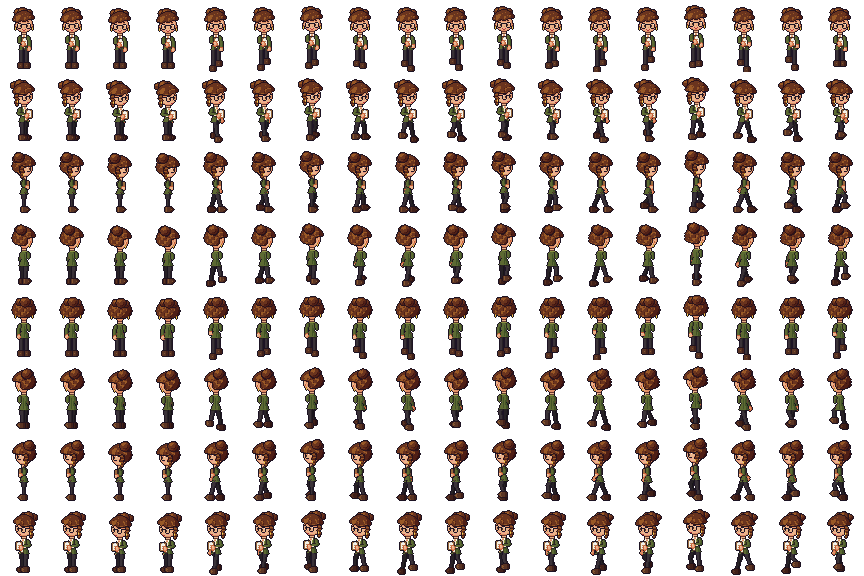
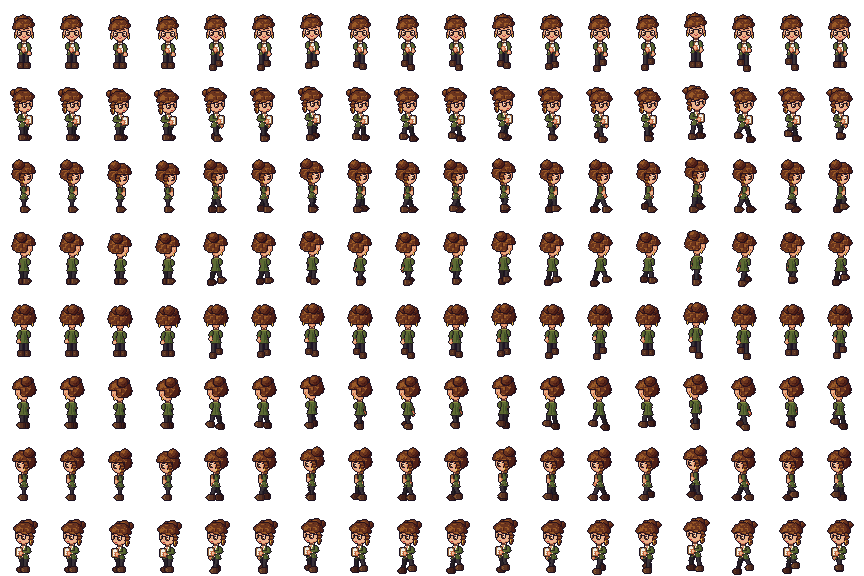
Chibi proportions and shiny eyes
A big head on a short body (no visible neck, shorter torso and legs, big
shoes), like the reference sprite. The default eye is a brown iris with a
lash line and a glint; the small eye stays as Soft. Walk and run strides
are shortened to suit the legs.

Claude-Session: https://claude.ai/code/session_01EfrosEJNuJAWzsbhjRadEB

diff --git a/js/body.js b/js/body.js
@@ -40,10 +40,10 @@
     const up = -hg + (pose.bob || 0);
     const breath = pose.breath || 0;
     const lean = pose.lean || 0;
-    const hipY = ground - 20 + up;
-    const sy = hipY - 12 + breath;
+    const hipY = ground - 15 + up;
+    const sy = hipY - 10 + breath;
     const hcx = cx + s * lean;
-    const hcy = sy - 11;
+    const hcy = sy - 10.5;
     // a turned torso keeps its front width in 3/4 views and only slims in profile
     const hw = Math.round(b.bw * (1 - 0.3 * s ** 4));
     const carrying = cfg.held && cfg.held !== 'none';
@@ -68,14 +68,14 @@
       const shy = sy + 2.4;
       if (carrying && i === 0) {
         // carry pose: elbow tucked, forearm forward across the chest
-        const ex = shx + side * 0.6 - s * 0.5, ey = sy + 6.4;
-        const wx = cx + s * (hw + 0.5) - c * r * 0.8, wy = sy + 8 + c * 0.5;
+        const ex = shx + side * 0.6 - s * 0.5, ey = sy + 5.4;
+        const wx = cx + s * (hw + 0.5) - c * r * 0.8, wy = sy + 6.8 + c * 0.5;
         return { r, out, depth: r * s, carry: true, sh: [shx, shy], el: [ex, ey], wr: [wx, wy], hand: [wx + s * 0.4, wy + 0.4] };
       }
       const sw = (pose.arms && pose.arms[i]) || 0;
-      const ex = shx + side * 1.2 + s * sw * 0.45, ey = sy + 7.2 + c * sw * 0.2;
-      const wx = shx + side * 1.0 + s * sw, wy = sy + 12.6 + c * sw * 0.5 - Math.abs(sw) * 0.35;
-      return { r, out, depth: r * s, sh: [shx, shy], el: [ex, ey], wr: [wx, wy], hand: [wx + s * 0.4, wy + 1.4] };
+      const ex = shx + side * 1.0 + s * sw * 0.45, ey = sy + 6 + c * sw * 0.2;
+      const wx = shx + side * 0.9 + s * sw, wy = sy + 10.4 + c * sw * 0.5 - Math.abs(sw) * 0.3;
+      return { r, out, depth: r * s, sh: [shx, shy], el: [ex, ey], wr: [wx, wy], hand: [wx + s * 0.4, wy + 1.2] };
     });
 
     // legs: feet step along the facing direction, in depth as well as sideways
@@ -176,9 +176,9 @@
     const hem = R.hipY + 1 + hemExtra;
     const lx = cx + s * (R.pose.lean || 0) * 0.5;
     return [
-      [lx - hw + 2.6, top], [lx + hw - 2.6, top], [lx + hw - 0.6, top + 1.4], [lx + hw, top + 3.2],
-      [lx + hw - 0.3 + chest, top + 5.5], [cx + wW + belly * s, top + 8.5], [cx + hipW, hem], [cx - hipW, hem],
-      [cx - wW - belly * s * 0.3, top + 8.5], [lx - hw + 0.3, top + 5.5], [lx - hw, top + 3.2], [lx - hw + 0.6, top + 1.4],
+      [lx - hw + 2.6, top], [lx + hw - 2.6, top], [lx + hw - 0.6, top + 1.2], [lx + hw, top + 2.6],
+      [lx + hw - 0.3 + chest, top + 4.6], [cx + wW + belly * s, top + 7.1], [cx + hipW, hem], [cx - hipW, hem],
+      [cx - wW - belly * s * 0.3, top + 7.1], [lx - hw + 0.3, top + 4.6], [lx - hw, top + 2.6], [lx - hw + 0.6, top + 1.2],
     ];
   }
 
@@ -203,7 +203,7 @@
     if (def.skinTorso || def.tank) {
       fr.draw(fr.mask().poly(torsoPts(R)), { ramp: R.ramps.skin, shade: 'cyl', outline: 'full', tag: TAG.skin, th: [0.9, 0.2, -0.6] });
       if (def.skinTorso) {
-        if (front) { fr.px(nx, sy + 9, R.ramps.skin, 2, TAG.skin); fr.px(nx - 2, sy + 5, R.ramps.skin, 2, TAG.skin); fr.px(nx + 1, sy + 5, R.ramps.skin, 2, TAG.skin); }
+        if (front) { fr.px(nx, sy + 7, R.ramps.skin, 2, TAG.skin); fr.px(nx - 2, sy + 4, R.ramps.skin, 2, TAG.skin); fr.px(nx + 1, sy + 4, R.ramps.skin, 2, TAG.skin); }
         return;
       }
       const m = fr.mask().poly(torsoPts(R)).clipY(sy + 3, 999);
@@ -221,22 +221,22 @@
       const outer = fr.mask().poly(outerPts);
       if (c > -0.05) {
         const ox = cx + s * hw * 0.6;
-        const wt = Math.max(1.2, 3.4 * c), close = sy + 9;
+        const wt = Math.max(1.2, 3.2 * c), close = sy + 7.5;
         const open = fr.mask().poly([[ox - wt, sy - 1], [ox + wt, sy - 1], [ox + 0.6, close], [ox - 0.6, close]]);
         // cutaway below the last button
         open.poly([[ox, R.hipY - 2], [ox + 1.6 * c + 0.5, R.hipY + 1 + (def.hem || 0)], [ox - 1.6 * c - 0.5, R.hipY + 1 + (def.hem || 0)]]);
         outer.subtract(open);
         fr.draw(outer, { ramp: R.ramps.top, shade: 'cyl', outline: 'outer', tag: TAG.cloth, th: CLOTH_TH });
         // lapels: light fold beside the opening, dark crease outside it
-        for (let y = sy; y < sy + 7; y++) for (let x = 0; x < fr.w; x++) {
+        for (let y = sy; y < sy + 6; y++) for (let x = 0; x < fr.w; x++) {
           if (!outer.has(x, y)) continue;
           const dl = open.has(x - 1, y) || open.has(x + 1, y);
           const d2 = open.has(x - 2, y) || open.has(x + 2, y);
           if (dl) fr.putTone(x, y, R.ramps.top, 0, TAG.cloth);
           else if (d2 && y > sy) fr.putTone(x, y, R.ramps.top, 2, TAG.cloth);
-          else if ((open.has(x - 3, y) || open.has(x + 3, y)) && y > sy + 1 && y < sy + 6) fr.putTone(x, y, R.ramps.top, 3, TAG.cloth);
+          else if ((open.has(x - 3, y) || open.has(x + 3, y)) && y > sy + 1 && y < sy + 5) fr.putTone(x, y, R.ramps.top, 3, TAG.cloth);
         }
-        for (let y = sy + 7; y < R.hipY + (def.hem || 0); y++) for (let x = 0; x < fr.w; x++) {
+        for (let y = sy + 6; y < R.hipY + (def.hem || 0); y++) for (let x = 0; x < fr.w; x++) {
           if (outer.has(x, y) && (open.has(x - 1, y) || open.has(x + 1, y))) fr.putTone(x, y, R.ramps.top, 3, TAG.cloth);
         }
         // shirt collar and skin V
@@ -253,7 +253,7 @@
         }
         // buttons and pockets
         const bx = Math.floor(ox) - (c > 0.5 ? 1 : 0);
-        if (c > 0.3) { fr.px(bx, sy + 10, R.ramps.top, 3); fr.px(bx, sy + 12, R.ramps.top, 3); }
+        if (c > 0.3) { fr.px(bx, sy + 8, R.ramps.top, 3); }
         if (c > 0.3) {
           for (const side of [-1, 1]) {
             if (side > 0 && s > 0.5) continue;
@@ -290,8 +290,8 @@
         }
         if (def.pocket && c > 0.3) {
           const pl = Math.round(cx - 3.5 + s * 1.5), pr = Math.round(cx + 2.5 + s * 1.5);
-          for (let x = pl + 1; x < pr; x++) fr.darken(x, sy + 7, 1);
-          for (let y = sy + 7; y < R.hipY - 1; y++) { fr.darken(pl, y, 1); fr.darken(pr, y, 1); }
+          for (let x = pl + 1; x < pr; x++) fr.darken(x, sy + 6, 1);
+          for (let y = sy + 6; y < R.hipY - 1; y++) { fr.darken(pl, y, 1); fr.darken(pr, y, 1); }
         }
         if (def.hood) {
           const dx = c > 0.5 ? [nx - 2, nx + 1] : [nx];
@@ -306,13 +306,13 @@
       // a small gold bar on the left breast
       const g = ramp('#e8b84a');
       const bx = Math.round(cx + c * (hw - 3.5) + s * hw * 0.9) - 1;
-      fr.px(bx, sy + 5, g, 0, TAG.other); fr.px(bx + 1, sy + 5, g, 1, TAG.other);
+      fr.px(bx, sy + 4, g, 0, TAG.other); fr.px(bx + 1, sy + 4, g, 1, TAG.other);
     }
 
     if (def.belt) {
-      const belt = fr.mask().poly(outerPts).clipY(sy + 9, sy + 11);
+      const belt = fr.mask().poly(outerPts).clipY(sy + 7, sy + 9);
       fr.draw(belt, { ramp: R.ramps.top2, shade: 'cyl', outline: 'none', tag: TAG.cloth });
-      if (front) { const g = ramp('#e8b030'); fr.px(nx, sy + 9, g, 0, TAG.other); fr.px(nx, sy + 10, g, 2, TAG.other); fr.px(nx - 1, sy + 9, g, 1, TAG.other); fr.px(nx - 1, sy + 10, g, 2, TAG.other); }
+      if (front) { const g = ramp('#e8b030'); fr.px(nx, sy + 7, g, 0, TAG.other); fr.px(nx, sy + 8, g, 2, TAG.other); fr.px(nx - 1, sy + 7, g, 1, TAG.other); fr.px(nx - 1, sy + 8, g, 2, TAG.other); }
     }
   }
 
@@ -326,8 +326,8 @@
       const ax = cx + s * hw * 0.55;
       const half = Math.max(1.5, (hw - 1.5) * c + 1.2 * s);
       const m = fr.mask().poly([
-        [ax - half + 1, sy + 3], [ax + half - 1, sy + 3], [ax + half - 0.5, sy + 8],
-        [ax + half + 1.2, hipY + 9], [ax - half - 1.2, hipY + 9], [ax - half + 0.5, sy + 8],
+        [ax - half + 1, sy + 2.5], [ax + half - 1, sy + 2.5], [ax + half - 0.5, sy + 6.5],
+        [ax + half + 1.2, hipY + 7], [ax - half - 1.2, hipY + 7], [ax - half + 0.5, sy + 6.5],
       ]);
       fr.draw(m, { ramp: A, shade: 'cyl', outline: 'full', tag: TAG.cloth, th: CLOTH_TH });
       // neck strap and pocket
@@ -343,7 +343,7 @@
       }
     } else {
       // ties at the back of the waist
-      const y = sy + 8;
+      const y = sy + 6.5;
       const m = fr.mask().rect(Math.round(cx - hw + 0.5), y, Math.round(hw * 2 - 1), 1);
       m.ellipse(cx - 1.5 + s * 1, y + 1, 1.5, 1.3).ellipse(cx + 1.5 + s * 1, y + 1, 1.5, 1.3).rect(Math.round(cx - 1 + s), y + 1, 2, 4);
       fr.draw(m, { ramp: A, shade: 'flat', flat: 1, outline: 'full', tag: TAG.cloth });
@@ -473,7 +473,7 @@
       const z = -c;
       const px = cx - s * (hw + 2);
       const half = (12 * Math.abs(c) + 6 * s) / 2;
-      const top = sy + 1, bot = sy + 13;
+      const top = sy + 1, bot = sy + 11;
       const draw = (fr) => {
         const m = fr.mask().poly([[px - half + 1.5, top], [px + half - 1.5, top], [px + half, top + 2], [px + half, bot], [px - half, bot], [px - half, top + 2]]);
         fr.draw(m, { ramp: B, shade: 'cyl', outline: 'full', tag: TAG.cloth, th: CLOTH_TH,

diff --git a/js/catalog.js b/js/catalog.js
@@ -6,7 +6,7 @@
   const PALETTES = {
     skin: ['#ffe2cc', '#f6cfae', '#eab48c', '#d99a70', '#bd7c52', '#9a5c3a', '#7a4428', '#5a301c', '#3e2214'],
     hair: ['#1c1418', '#2e2026', '#4a2c1e', '#6a341e', '#7a4224', '#9a5428', '#c07038', '#d8a050', '#ecd29a', '#c8c4c8', '#f0eeec', '#b02a3a', '#e04a8a', '#7a3fc0', '#3a5ac8', '#2a8a78'],
-    eyes: ['#2a1a14', '#5a3018', '#6a3c1e', '#8a5a2a', '#3a6a9a', '#3d7a4a', '#6a7a8a', '#7a3a8a'],
+    eyes: ['#3a2418', '#6a3c1e', '#8a5230', '#a0703a', '#3a72b0', '#3d8a4e', '#7a8a9a', '#8a4aa0'],
     cloth: ['#5d6a33', '#3e5a2a', '#2f7a4a', '#2a4a6e', '#3a6aa8', '#7aa0d0', '#8a2e2e', '#c8383c', '#d8a440', '#efe4cf', '#f4f2ee', '#a8a8b2', '#4a4a56', '#2a2a34', '#3a3238', '#5a3a6e', '#2a7068', '#6b4a32', '#e07a9a', '#e8c8a0'],
     leather: ['#5a3424', '#7a4a2a', '#9a6a3e', '#2a2026', '#1e1e24', '#efede8', '#c8383c', '#3a5aa8'],
     metal: ['#e0aa38', '#c8ccd4', '#b06a3a', '#2a1e20', '#4a3a6a'],
@@ -27,7 +27,7 @@
     {
       name: 'Face',
       items: [
-        { key: 'eyes', label: 'Eyes', type: 'select', options: ['default', 'sparkly', 'big', 'happy', 'sleepy', 'closed', 'stern', 'beady'] },
+        { key: 'eyes', label: 'Eyes', type: 'select', options: ['default', 'soft', 'big', 'happy', 'sleepy', 'closed', 'stern', 'beady'] },
         { key: 'eyeColor', label: 'Eye colour', type: 'color', palette: 'eyes' },
         { key: 'brows', label: 'Brows', type: 'select', options: ['normal', 'soft', 'thick', 'angry', 'worried', 'none'] },
         { key: 'nose', label: 'Nose', type: 'select', options: ['dot', 'none'] },
@@ -92,7 +92,7 @@
     badge: 'Gold name badge', headscarf: 'Headscarf', plant: 'Potted plant', camera: 'Camera', mic: 'Microphone', wrench: 'Wrench', record: 'Vinyl record', clipboard: 'Clipboard', coffee: 'Coffee cup', phone: 'Phone', book: 'Book',
     backpack: 'Backpack', cape: 'Cape', selout: 'Selective', black: 'Black', colored: 'Coloured',
     slim: 'Slim', average: 'Average', broad: 'Broad', heavy: 'Heavy', straight: 'Straight', curvy: 'Curvy', tall: 'Tall',
-    default: 'Soft', sparkly: 'Sparkly', big: 'Big', happy: 'Happy (closed)', sleepy: 'Sleepy', closed: 'Closed', stern: 'Stern', beady: 'Beady',
+    default: 'Shiny', soft: 'Soft', big: 'Big', happy: 'Happy (closed)', sleepy: 'Sleepy', closed: 'Closed', stern: 'Stern', beady: 'Beady',
     normal: 'Normal', soft: 'Soft', thick: 'Thick', angry: 'Angry', worried: 'Worried', dot: 'Dot', neutral: 'Neutral', smile: 'Smile',
     open: 'Open smile', grin: 'Grin', frown: 'Frown', smirk: 'Smirk', natural: 'Natural', red: 'Red', pink: 'Pink', plum: 'Plum',
     blush: 'Blush', freckles: 'Freckles', stubble: 'Stubble', mustache: 'Mustache', goatee: 'Goatee', beard: 'Full beard',
@@ -102,7 +102,7 @@
   const BASE = {
     name: 'character',
     build: 'average', figure: 'straight', height: 'average', skin: '#eab48c',
-    eyes: 'default', eyeColor: '#5a3018', brows: 'normal', nose: 'dot', mouth: 'smile', lips: 'natural', cheeks: 'none', facialHair: 'none',
+    eyes: 'default', eyeColor: '#7a4424', brows: 'normal', nose: 'dot', mouth: 'smile', lips: 'natural', cheeks: 'none', facialHair: 'none',
     hair: 'short', hairColor: '#6e3a20',
     top: 'tshirt', topColor: '#c8383c', top2Color: '#f4f2ee',
     bottom: 'jeans', bottomColor: '#3a6aa8', shoes: 'sneakers', shoeColor: '#efede8',
@@ -136,7 +136,7 @@
       bottomColor: '#5a3a6e', shoes: 'shoes', shoeColor: '#5a3424', hat: 'headband', hatColor: '#d8a440',
     }),
     'Bea Moreno': P('bea-moreno', {
-      figure: 'curvy', skin: '#d99a70', eyeColor: '#5a3018', mouth: 'smile', lips: 'red', cheeks: 'blush', hair: 'long',
+      figure: 'curvy', skin: '#d99a70', eyeColor: '#7a4424', mouth: 'smile', lips: 'red', cheeks: 'blush', hair: 'long',
       hairColor: '#9a5428', hat: 'headband', hatColor: '#c8903c', earrings: 'hoops', top: 'tank', topColor: '#2a2a34',
       bottom: 'jeans', bottomColor: '#2a2a34', shoes: 'boots', shoeColor: '#2a2026',
     }),
@@ -146,7 +146,7 @@
       shoeColor: '#1e1e24',
     }),
     'Kit Voss': P('kit-voss', {
-      build: 'slim', figure: 'curvy', skin: '#f6cfae', eyes: 'sparkly', eyeColor: '#7a3a8a', mouth: 'open', lips: 'pink',
+      build: 'slim', figure: 'curvy', skin: '#f6cfae', eyes: 'default', eyeColor: '#7a3a8a', mouth: 'open', lips: 'pink',
       hair: 'pigtails', hairColor: '#e04a8a', top: 'jacket', topColor: '#2a2a34', top2Color: '#e07a9a', bottom: 'skirt',
       bottomColor: '#2a2a34', shoes: 'boots', shoeColor: '#1e1e24', earrings: 'hoops', earringColor: '#c8ccd4',
     }),
@@ -161,7 +161,7 @@
       shoeColor: '#1e1e24', earrings: 'drops',
     }),
     'Dominic Pike': P('dominic-pike', {
-      build: 'broad', skin: '#eab48c', eyeColor: '#5a3018', brows: 'thick', mouth: 'grin', hair: 'swept', hairColor: '#6e3a20',
+      build: 'broad', skin: '#eab48c', eyeColor: '#7a4424', brows: 'thick', mouth: 'grin', hair: 'swept', hairColor: '#6e3a20',
       top: 'jacket', topColor: '#2a2a34', top2Color: '#f4f2ee', bottom: 'trousers', bottomColor: '#2a2a34', shoes: 'shoes',
       shoeColor: '#1e1e24', badge: 'badge',
     }),
@@ -181,7 +181,7 @@
       bottomColor: '#6b4a32', shoes: 'shoes', shoeColor: '#5a3424', held: 'plant',
     }),
     'Dee Callow': P('dee-callow', {
-      skin: '#eab48c', eyeColor: '#5a3018', mouth: 'open', cheeks: 'freckles', hair: 'messybun', hairColor: '#9a5428',
+      skin: '#eab48c', eyeColor: '#7a4424', mouth: 'open', cheeks: 'freckles', hair: 'messybun', hairColor: '#9a5428',
       hat: 'headband', hatColor: '#f4f2ee', earrings: 'hoops', top: 'tshirt', topColor: '#2a2a34', bottom: 'jeans',
       bottomColor: '#3a6aa8', shoes: 'sneakers', shoeColor: '#efede8', held: 'coffee',
     }),
@@ -241,7 +241,7 @@
       shoes: 'boots', shoeColor: '#1e1e24',
     }),
     'Gus Pike': P('gus-pike', {
-      skin: '#eab48c', eyeColor: '#5a3018', mouth: 'grin', hair: 'spiky', hairColor: '#6e3a20', glasses: 'round',
+      skin: '#eab48c', eyeColor: '#7a4424', mouth: 'grin', hair: 'spiky', hairColor: '#6e3a20', glasses: 'round',
       glassesColor: '#2a1e20', top: 'hoodie', topColor: '#2a4a6e', top2Color: '#a8a8b2', bottom: 'jeans', bottomColor: '#3a3238',
       shoes: 'sneakers', shoeColor: '#2a2026',
     }),

diff --git a/js/head.js b/js/head.js
@@ -276,8 +276,8 @@
   // inner (nose side) then outer, so both eyes mirror cleanly. k = dark, i = iris,
   // w = white glint, s = lid shadow, . = skin. `at` is the first box row the template uses.
   const EYES = {
-    default: { rows: ['k', 'i'], at: 1 }, // small and calm, like the in-game sprites
-    sparkly: { rows: ['kk', 'iw', 'ii'], at: 1 }, // lash, iris and a glint
+    default: { rows: ['kk', 'iw', 'ii'], at: 1 }, // shiny: lash, iris and a glint
+    soft: { rows: ['k', 'i'], at: 1 }, // small and calm
     big: { rows: ['kk', 'wk', 'ik', 'ii'] }, // big anime eyes
     happy: { rows: ['kk', 'k.'], at: 1, wide: true },
     sleepy: { rows: ['ss', 'kk'], at: 1 },
@@ -338,7 +338,7 @@
     const cfg = R.cfg;
     const skin = R.ramps.skin;
     const dark = mix(skin[3], R.style.color, 0.82);
-    const iris = mix(hex(cfg.eyeColor), dark, 0.15);
+    const iris = hex(cfg.eyeColor);
     const white = hex('#fffaf4');
     const browCol = mix(R.ramps.hair[2], R.style.color, 0.2); // softer than the outline
     const tpl = EYES[cfg.eyes] || EYES.default;

diff --git a/js/sheet.js b/js/sheet.js
@@ -19,8 +19,8 @@
 
   const ANIMS = {
     idle: { frames: 4, fps: 5, pose: (i) => ({ bob: 0, breath: i >= 2 ? 1 : 0, sway: 0 }) },
-    walk: { frames: 8, fps: 10, pose: (i, n) => gait(i, n, 5, 3, 3.5, 1) },
-    run: { frames: 6, fps: 14, pose: (i, n) => ({ ...gait(i, n, 7, 5, 5, 2), lean: 1, sway: Math.round(Math.sin((i / n) * Math.PI * 2) * 2) }) },
+    walk: { frames: 8, fps: 10, pose: (i, n) => gait(i, n, 4, 2, 3, 1) },
+    run: { frames: 6, fps: 14, pose: (i, n) => ({ ...gait(i, n, 6, 4, 4, 2), lean: 1, sway: Math.round(Math.sin((i / n) * Math.PI * 2) * 2) }) },
   };
 
   const DIR_ORDERS = {

diff --git a/README.md b/README.md
@@ -19,7 +19,7 @@ npx http-server -p 8080 .
 
 | Setting      | Default                                                                 |
 | ------------ | ----------------------------------------------------------------------- |
-| Frame        | 48 × 72 px, character about 26 × 56 px. Padded 64 × 80 and 64 × 96 are also available |
+| Frame        | 48 × 72 px, character about 26 × 46 px in chibi proportions. Padded 64 × 80 and 64 × 96 are also available |
 | Pivot        | Feet, 5 px above the bottom of the frame (`pivot` in the atlas)          |
 | Directions   | S, SE, E, NE, N, NW, W, SW. W, SW and NW are mirrored from E, SE and NE  |
 | Animations   | idle (4 frames, 5 fps), walk (8 frames, 10 fps), run (6 frames, 14 fps)  |
